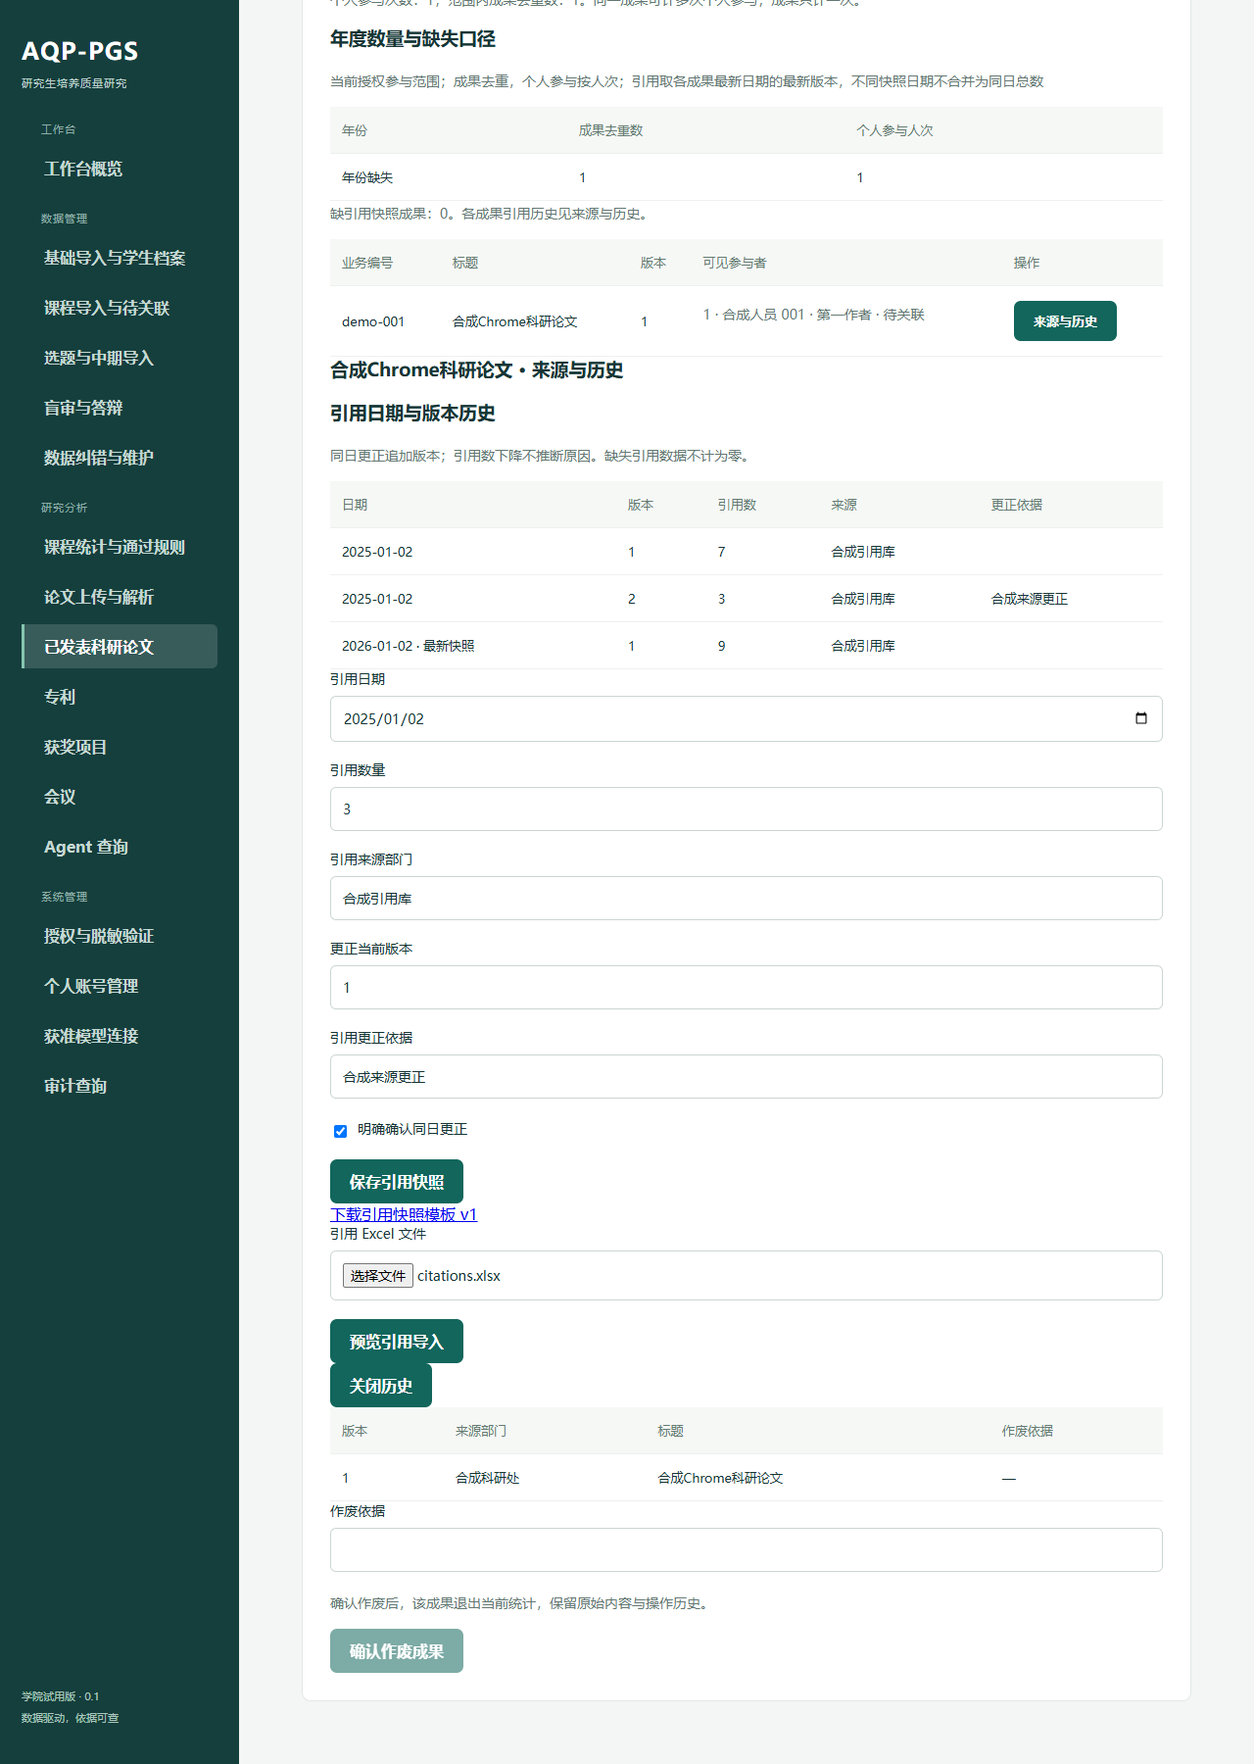
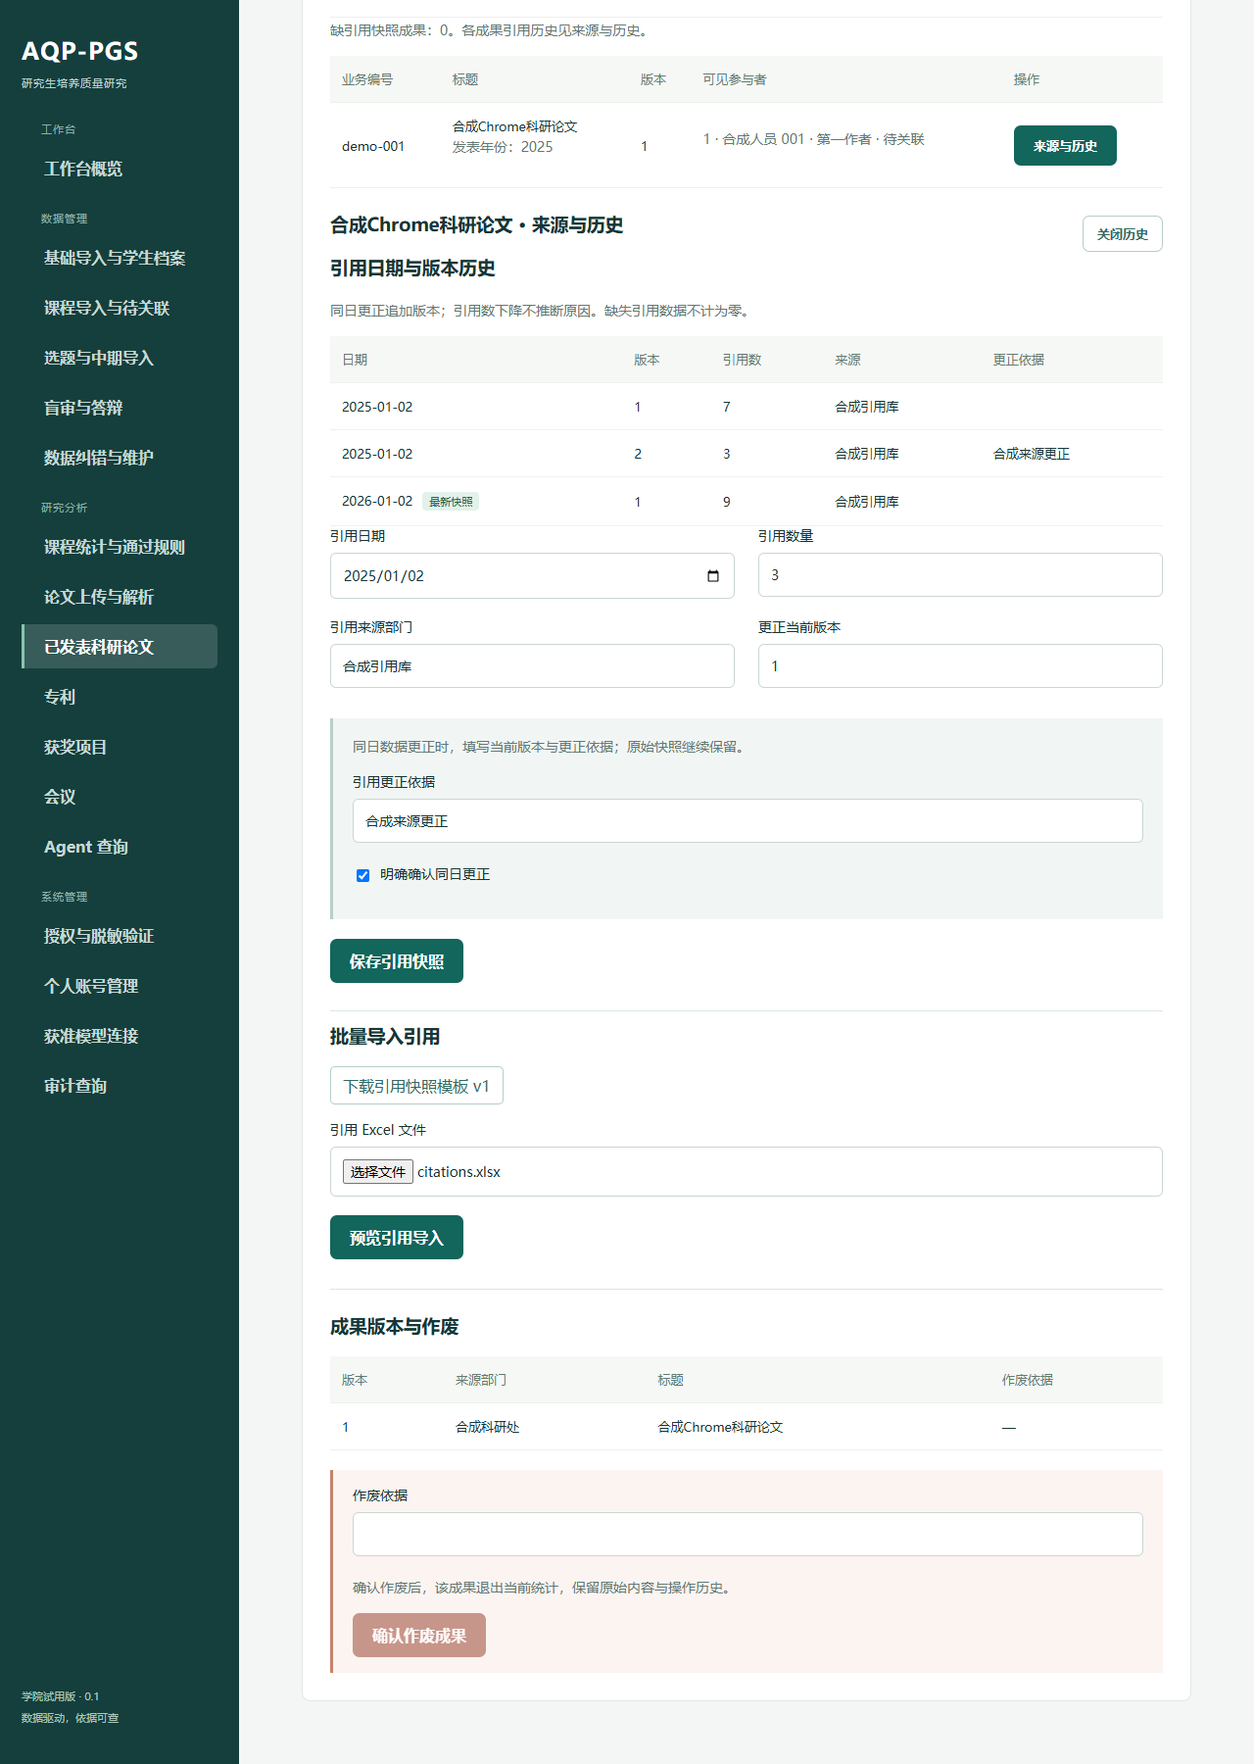
fix: accept optional publication years and clarify citation workflows

diff --git a/frontend/src/CitationPanel.tsx b/frontend/src/CitationPanel.tsx
@@ -5,9 +5,9 @@ export function CitationPanel({id,csrf,onChange}:{id:number;csrf:string;onChange
  const [batch,setBatch]=useState<Batch|null>(null);
  const [items,setItems]=useState<Snapshot[]>([]),[error,setError]=useState(""),[busy,setBusy]=useState(false),[loaded,setLoaded]=useState(false);
  async function load(){const r=await fetch(`/api/research-outputs/${id}/citations`);if(!r.ok)throw new Error("引用数据不可查看");setItems((await r.json()).items);setLoaded(true);}
- useEffect(()=>{setLoaded(false);void load().catch(e=>setError(String(e)));},[id]);
+ useEffect(()=>{setBatch(null);setItems([]);setError("");setLoaded(false);void load().catch(e=>setError(String(e)));},[id]);
  async function save(e:React.FormEvent<HTMLFormElement>){e.preventDefault();const f=new FormData(e.currentTarget);setBusy(true);setError("");try{const r=await fetch(`/api/research-outputs/${id}/citations`,{method:"POST",headers:{"Content-Type":"application/json","X-CSRF-Token":csrf},body:JSON.stringify({date:f.get("date"),count:Number(f.get("count")),source_department:f.get("source"),expected_version:Number(f.get("version")),confirmed:f.get("confirmed")==="on",reason:f.get("reason")})});if(!r.ok)throw new Error((await r.json()).detail);await load();onChange();}catch(e){setError(String(e));}finally{setBusy(false);}}
  async function importFile(e:React.FormEvent<HTMLFormElement>){e.preventDefault();setError("");setBusy(true);try{const r=await fetch("/api/research-outputs/citations/preview",{method:"POST",headers:{"X-CSRF-Token":csrf},body:new FormData(e.currentTarget)});const data=await r.json();if(!r.ok)throw new Error(data.detail);setBatch(data);}catch(e){setError(String(e));}finally{setBusy(false);}}
  async function confirm(e:React.FormEvent<HTMLFormElement>){e.preventDefault();if(!batch)return;setBusy(true);setError("");const f=new FormData(e.currentTarget);try{const r=await fetch(`/api/research-outputs/citations/previews/${batch.id}/confirm`,{method:"POST",headers:{"Content-Type":"application/json","X-CSRF-Token":csrf},body:JSON.stringify({accept_changes:f.get("accept")==="on",reason:f.get("reason")})});if(!r.ok)throw new Error((await r.json()).detail);setBatch(null);await load();onChange();}catch(e){setError(String(e));}finally{setBusy(false);}}
- return <section aria-label="引用快照"><h3>引用日期与版本历史</h3><p>同日更正追加版本；引用数下降不推断原因。缺失引用数据不计为零。</p>{error&&<p role="alert">{error}</p>}{busy&&<p role="status">处理中…</p>}{!loaded?<p>正在加载…</p>:items.length===0?<p>尚无引用快照。</p>:<table><thead><tr><th>日期</th><th>版本</th><th>引用数</th><th>来源</th><th>更正依据</th></tr></thead><tbody>{items.map(i=><tr key={`${i.date}-${i.version}`}><td>{i.date}{i.latest_snapshot?" · 最新快照":""}</td><td>{i.version}</td><td>{i.count}</td><td>{i.source_department??"身份权限限制"}</td><td>{i.reason??"身份权限限制"}</td></tr>)}</tbody></table>}<form onSubmit={save}><label>引用日期<input name="date" type="date" required/></label><label>引用数量<input name="count" type="number" min="0" step="1" required/></label><label>引用来源部门<input name="source" required/></label><label>更正当前版本<input name="version" type="number" min="0" defaultValue="0"/></label><label>引用更正依据<input name="reason"/></label><label style={{display:"flex",alignItems:"center",gap:"0.5rem"}}><input style={{width:"auto"}} name="confirmed" type="checkbox"/>明确确认同日更正</label><button disabled={busy}>保存引用快照</button></form><a href="/api/research-outputs/citations/template">下载引用快照模板 v1</a><form onSubmit={importFile}><label>引用 Excel 文件<input type="file" name="file" accept=".xlsx" required/></label><button disabled={busy}>预览引用导入</button></form>{batch&&<form onSubmit={confirm}><h4>引用导入预览</h4>{batch.errors.map(e=><p role="alert" key={e.row}>第{e.row}行：{e.message}</p>)}{batch.items.map(i=><p key={`${i.output_id}-${i.body.date}`}>{i.business_key} · {i.body.date} · {i.body.count} · {i.status}</p>)}<label style={{display:"flex",alignItems:"center",gap:"0.5rem"}}><input style={{width:"auto"}} name="accept" type="checkbox"/>明确确认批量更正</label><label>批量更正依据<input name="reason"/></label><button disabled={busy||batch.errors.length>0}>确认引用导入</button></form>}</section>;
+ return <section aria-label="引用快照"><h3>引用日期与版本历史</h3><p>同日更正追加版本；引用数下降不推断原因。缺失引用数据不计为零。</p>{error&&<p role="alert">{error}</p>}{busy&&<p role="status">处理中…</p>}{!loaded?<p>正在加载…</p>:items.length===0?<p>尚无引用快照。</p>:<table><thead><tr><th>日期</th><th>版本</th><th>引用数</th><th>来源</th><th>更正依据</th></tr></thead><tbody>{items.map(i=><tr key={`${i.date}-${i.version}`}><td>{i.date}{i.latest_snapshot&&<span className="citation-badge">最新快照</span>}</td><td>{i.version}</td><td>{i.count}</td><td>{i.source_department??"身份权限限制"}</td><td>{i.reason??"身份权限限制"}</td></tr>)}</tbody></table>}<form key={id} onSubmit={save}><div className="citation-fields"><label>引用日期<input name="date" type="date" required/></label><label>引用数量<input name="count" type="number" min="0" step="1" required/></label><label>引用来源部门<input name="source" required/></label><label>更正当前版本<input name="version" type="number" min="0" defaultValue="0"/></label></div><div className="citation-correction"><p>同日数据更正时，填写当前版本与更正依据；原始快照继续保留。</p><label>引用更正依据<input name="reason"/></label><label style={{display:"flex",alignItems:"center",gap:"0.5rem"}}><input style={{width:"auto"}} name="confirmed" type="checkbox"/>明确确认同日更正</label></div><button disabled={busy}>保存引用快照</button></form><div className="citation-import"><h3>批量导入引用</h3><a className="citation-template" href="/api/research-outputs/citations/template">下载引用快照模板 v1</a><form onSubmit={importFile}><label>引用 Excel 文件<input type="file" name="file" accept=".xlsx" required/></label><button disabled={busy}>预览引用导入</button></form>{batch&&<form onSubmit={confirm}><h4>引用导入预览</h4>{batch.errors.map(e=><p role="alert" key={e.row}>第{e.row}行：{e.message}</p>)}{batch.items.map(i=><p key={`${i.output_id}-${i.body.date}`}>{i.business_key} · {i.body.date} · {i.body.count} · {i.status}</p>)}<label style={{display:"flex",alignItems:"center",gap:"0.5rem"}}><input style={{width:"auto"}} name="accept" type="checkbox"/>明确确认批量更正</label><label>批量更正依据<input name="reason"/></label><button disabled={busy||batch.errors.length>0}>确认引用导入</button></form>}</div></section>;
 }

diff --git a/frontend/src/ResearchOutputs.tsx b/frontend/src/ResearchOutputs.tsx
@@ -32,6 +32,6 @@ export function ResearchOutputs({csrf,category="research_outputs"}:{csrf:string;
     <h3>当前授权范围</h3><label style={{display:"flex",alignItems:"center",gap:"0.5rem"}}><input style={{width:"auto"}} type="checkbox" checked={voided} onChange={e=>{setSelected(null);setVoided(e.target.checked);}}/>查看已作废成果</label><p>个人参与次数：{counts.personal_participations}；范围内成果去重数：{counts.distinct_outputs}。同一成果可计多次个人参与，成果只计一次。</p>
     {stats&&!voided&&<section aria-label="成果年度统计"><h3>年度数量与缺失口径</h3><p>{stats.basis}</p><table><thead><tr><th>年份</th><th>成果去重数</th><th>个人参与人次</th></tr></thead><tbody>{stats.years.map(y=><tr key={y.year}><td>{y.year}</td><td>{y.distinct_outputs}</td><td>{y.personal_participations}</td></tr>)}</tbody></table>{category==="research_outputs"&&<p>缺引用快照成果：{stats.missing_citations}。各成果引用历史见来源与历史。</p>}</section>}
     {!loaded?<p>正在加载…</p>:items.length===0?<p>当前授权范围内暂无{title}。</p>:<table><thead><tr><th>业务编号</th><th>标题</th><th>版本</th><th>可见参与者</th><th>操作</th></tr></thead><tbody>{items.map(item=><tr key={item.id}><td>{item.business_key}</td><td>{item.title}{Object.entries(item.details||{}).map(([key,value])=><p key={key}>{key}：{value}</p>)}</td><td>{item.version}</td><td>{item.participants.map(p=><p key={p.order}>{p.order} · {p.name||"身份未授权"} {p.student_number||""} · {p.role} · {p.association==="pending"?"待关联":"已关联"}</p>)}</td><td><button onClick={()=>void showHistory(item)}>来源与历史</button></td></tr>)}</tbody></table>}
-    {selected&&<section aria-label="成果来源与历史"><h3>{selected.title} · 来源与历史</h3>{category==="research_outputs"&&<CitationPanel id={selected.id} csrf={csrf} onChange={()=>void reload()}/>}<button onClick={()=>setSelected(null)}>关闭历史</button><table><thead><tr><th>版本</th><th>来源部门</th><th>标题</th><th>作废依据</th></tr></thead><tbody>{history.map(entry=><tr key={entry.version}><td>{entry.version}</td><td>{entry.source_department}</td><td>{entry.payload.title}</td><td>{entry.payload.void_reason||"—"}</td></tr>)}</tbody></table>{history.some(entry=>entry.payload.void_reason)?<p role="status">该成果已作废，原始内容和历史继续保留。</p>:<form onSubmit={voidOutput}><label>作废依据<input required value={reason} onChange={e=>setReason(e.target.value)}/></label><p>确认作废后，该成果退出当前统计，保留原始内容与操作历史。</p><button disabled={busy||!reason.trim()}>确认作废成果</button></form>}</section>}
+    {selected&&<section aria-label="成果来源与历史"><div className="output-history-title"><h3>{selected.title} · 来源与历史</h3><button className="secondary" onClick={()=>setSelected(null)}>关闭历史</button></div>{category==="research_outputs"&&<CitationPanel key={selected.id} id={selected.id} csrf={csrf} onChange={()=>void reload()}/>}<h3 className="output-version-title">成果版本与作废</h3><table><thead><tr><th>版本</th><th>来源部门</th><th>标题</th><th>作废依据</th></tr></thead><tbody>{history.map(entry=><tr key={entry.version}><td>{entry.version}</td><td>{entry.source_department}</td><td>{entry.payload.title}</td><td>{entry.payload.void_reason||"—"}</td></tr>)}</tbody></table>{history.some(entry=>entry.payload.void_reason)?<p role="status">该成果已作废，原始内容和历史继续保留。</p>:<form className="output-danger" onSubmit={voidOutput}><label>作废依据<input required value={reason} onChange={e=>setReason(e.target.value)}/></label><p>确认作废后，该成果退出当前统计，保留原始内容与操作历史。</p><button disabled={busy||!reason.trim()}>确认作废成果</button></form>}</section>}
   </section>;
 }

diff --git a/frontend/src/style.css b/frontend/src/style.css
@@ -498,3 +498,16 @@ nav button:focus-visible {
 .assessment-preview > button:disabled { background: #d9e1e0; color: #536765; opacity: 1; cursor: not-allowed; }
 .assessment-templates { margin: 20px 0; color: #526d71; }
 .assessment-records table { margin-top: 18px; }
+
+.citation-fields { display:grid; grid-template-columns:repeat(2,minmax(0,1fr)); gap:0 24px; }
+.citation-correction { background:#f1f6f5; border-left:3px solid #b7cfca; padding:16px 20px; margin:12px 0 20px; }
+.citation-correction p { margin-top:0; }
+.citation-import { border-top:1px solid #dce7e4; margin-top:28px; padding-top:12px; }
+.citation-template { display:inline-block; color:#326a63; border:1px solid #b6ceca; padding:8px 12px; border-radius:5px; text-decoration:none; margin-bottom:16px; }
+.citation-badge { display:inline-block; margin-left:10px; padding:2px 7px; border-radius:4px; background:#e3f1ea; color:#28644b; font-size:11px; white-space:nowrap; }
+.output-history-title { display:flex; align-items:center; justify-content:space-between; gap:20px; margin-top:24px; }
+.output-history-title .secondary { background:transparent; border:1px solid #b6ceca; color:#326a63; }
+.output-version-title { border-top:1px solid #dce7e4; padding-top:24px; margin-top:30px; }
+.output-danger { background:#fcf4f1; border-left:3px solid #c6826c; padding:16px 20px; margin-top:20px; }
+.output-danger button { background:#9a4835; }
+@media(max-width:650px) { .citation-fields { grid-template-columns:1fr; } .output-history-title { align-items:flex-start; } }

diff --git a/backend/tests/browser_research_outputs.py b/backend/tests/browser_research_outputs.py
@@ -54,6 +54,7 @@ def main():
                 "参与角色",
                 "所属学院",
                 "专业",
+                "发表年份",
             ]
         )
         wb.active.append(
@@ -66,6 +67,7 @@ def main():
                 "第一作者",
                 "合成学院",
                 "合成专业",
+                2025,
             ]
         )
         filename = root / "synthetic.xlsx"
@@ -102,13 +104,14 @@ def main():
                 expect(page.get_by_role("heading", name="导入预览")).to_be_visible()
                 page.get_by_role("button", name="确认导入", exact=True).click()
                 expect(
-                    page.get_by_role("cell", name="合成Chrome科研论文", exact=True)
+                    page.get_by_role("cell", name="合成Chrome科研论文", exact=False)
                 ).to_be_visible()
                 expect(
                     page.get_by_text(
                         "个人参与次数：1；范围内成果去重数：1。", exact=False
                     )
                 ).to_be_visible()
+                expect(page.get_by_role("cell", name="2025", exact=True)).to_be_visible()
                 page.get_by_role("button", name="来源与历史", exact=True).click()
                 expect(page.get_by_role("cell", name="合成科研处", exact=True)).to_be_visible()
                 citations = page.locator('section[aria-label="引用快照"]')
@@ -141,12 +144,17 @@ def main():
                 page.set_viewport_size({"width": 1280, "height": 1800})
                 citations.get_by_role("heading", name="引用日期与版本历史").scroll_into_view_if_needed()
                 page.screenshot(path=str(screenshot_dir / "research-citations.png"))
+                page.set_viewport_size({"width": 550, "height": 1200})
+                assert citations.locator(".citation-fields").evaluate("el => getComputedStyle(el).gridTemplateColumns.split(' ').length") == 1
+                citations.get_by_label("引用日期", exact=True).scroll_into_view_if_needed()
+                page.screenshot(path=str(screenshot_dir / "research-citations-narrow.png"))
+                page.set_viewport_size({"width": 1280, "height": 1800})
                 page.get_by_label("作废依据", exact=True).fill("合成重复登记核实")
                 page.get_by_role("button", name="确认作废成果", exact=True).click()
                 expect(page.get_by_text("该成果已作废，原始内容和历史继续保留。", exact=True)).to_be_visible()
                 expect(page.get_by_text("个人参与次数：0；范围内成果去重数：0。", exact=False)).to_be_visible()
                 page.get_by_label("查看已作废成果", exact=True).check()
-                expect(page.get_by_role("cell", name="合成Chrome科研论文", exact=True).first).to_be_visible()
+                expect(page.get_by_role("cell", name="合成Chrome科研论文", exact=False).first).to_be_visible()
                 page.get_by_role("button", name="来源与历史", exact=True).click()
                 expect(page.get_by_text("该成果已作废，原始内容和历史继续保留。", exact=True)).to_be_visible()
                 page.screenshot(path=str(Path(__file__).resolve().parents[2] / ".scratch" / "research-void-history.png"), full_page=True)

diff --git a/backend/aqp/research_outputs.py b/backend/aqp/research_outputs.py
@@ -23,7 +23,7 @@ def register_research_outputs(
 ) -> None:
     endpoint = "research-outputs" if category == "research_papers" else category
     key_label, title_label, extra_labels = {
-        "research_papers": ("业务编号/DOI", "论文标题", ()),
+        "research_papers": ("业务编号/DOI", "论文标题", ("发表年份",)),
         "patents": ("申请号", "专利名称", ("专利类型", "申请日期")),
         "awards": ("业务编号", "获奖项目名称", ("获奖等级", "获奖年份")),
         "conferences": ("业务编号", "会议名称", ("报告类型", "会议日期")),
@@ -532,7 +532,8 @@ def register_research_outputs(
             rows = iter(ws.values)
             if tuple(next(rows))[:3] != ("AQP-PGS", category, "1"):
                 raise ValueError()
-            if tuple(next(rows)) != (
+            imported_header = tuple(next(rows))
+            expected_header = (
                 key_label,
                 title_label,
                 "学号",
@@ -542,8 +543,12 @@ def register_research_outputs(
                 "所属学院",
                 "专业",
                 *extra_labels,
+            )
+            if imported_header != expected_header and not (
+                category == "research_papers" and imported_header == expected_header[:8]
             ):
                 raise ValueError()
+            imported_labels = extra_labels if len(imported_header) > 8 else ()
             grouped: dict[str, Any] = {}
             for row in rows:
                 if all(value is None for value in row):
@@ -559,7 +564,7 @@ def register_research_outputs(
                     )
                 details = dict(
                     zip(
-                        extra_labels,
+                        imported_labels,
                         (str(value or "").strip() for value in row[8:]),
                         strict=True,
                     )
@@ -576,7 +581,20 @@ def register_research_outputs(
                     or not 1900 <= int(details["获奖年份"]) <= 2100
                 ):
                     raise ValueError()
-                if extra_labels and not all(details.values()):
+                if category == "research_papers":
+                    year = details.get("发表年份", "")
+                    if year and (
+                        re.fullmatch(r"[0-9]{4}", year) is None
+                        or not 1900 <= int(year) <= 2100
+                    ):
+                        raise ValueError()
+                    if not year:
+                        details = {}
+                if (
+                    category != "research_papers"
+                    and extra_labels
+                    and not all(details.values())
+                ):
                     raise ValueError()
                 if (
                     not all([key, title, number, name, role, college, major])
@@ -595,7 +613,7 @@ def register_research_outputs(
                     )
                 ):
                     raise ValueError()
-                if not extra_labels:
+                if not details:
                     output.pop("details", None)
                 output["participants"].append(
                     {

diff --git a/backend/tests/test_research_outputs.py b/backend/tests/test_research_outputs.py
@@ -90,6 +90,19 @@ def test_shared_output_preview_confirm_pending_and_duplicate(client):  # noqa: F
     assert result["distinct_outputs"] == 1
     assert result["items"][0]["participants"][0]["association"] == "pending"
     assert preview()["items"][0]["status"] == "duplicate"
+    wb.active["I3"] = "20x5"
+    stream = BytesIO()
+    wb.save(stream)
+    assert (
+        client.post(
+            "/api/research-outputs/preview",
+            headers=headers,
+            data={"source_department": "Synthetic"},
+            files={"file": ("invalid.xlsx", stream.getvalue())},
+        ).status_code
+        == 422
+    )
+    wb.active["I3"] = 2025
     wb.active["B3"] = "合成科研论文更正"
     stream = BytesIO()
     wb.save(stream)
@@ -107,6 +120,9 @@ def test_shared_output_preview_confirm_pending_and_duplicate(client):  # noqa: F
     result = client.get("/api/research-outputs").json()
     assert result["distinct_outputs"] == 1
     assert result["items"][0]["version"] == 2
+    assert client.get("/api/research-outputs/statistics").json()["years"] == [
+        {"year": "2025", "distinct_outputs": 1, "personal_participations": 1}
+    ]
     assert result["items"][0]["title"] == "合成科研论文更正"
     output_id = result["items"][0]["id"]
     citation_template = client.get("/api/research-outputs/citations/template")
